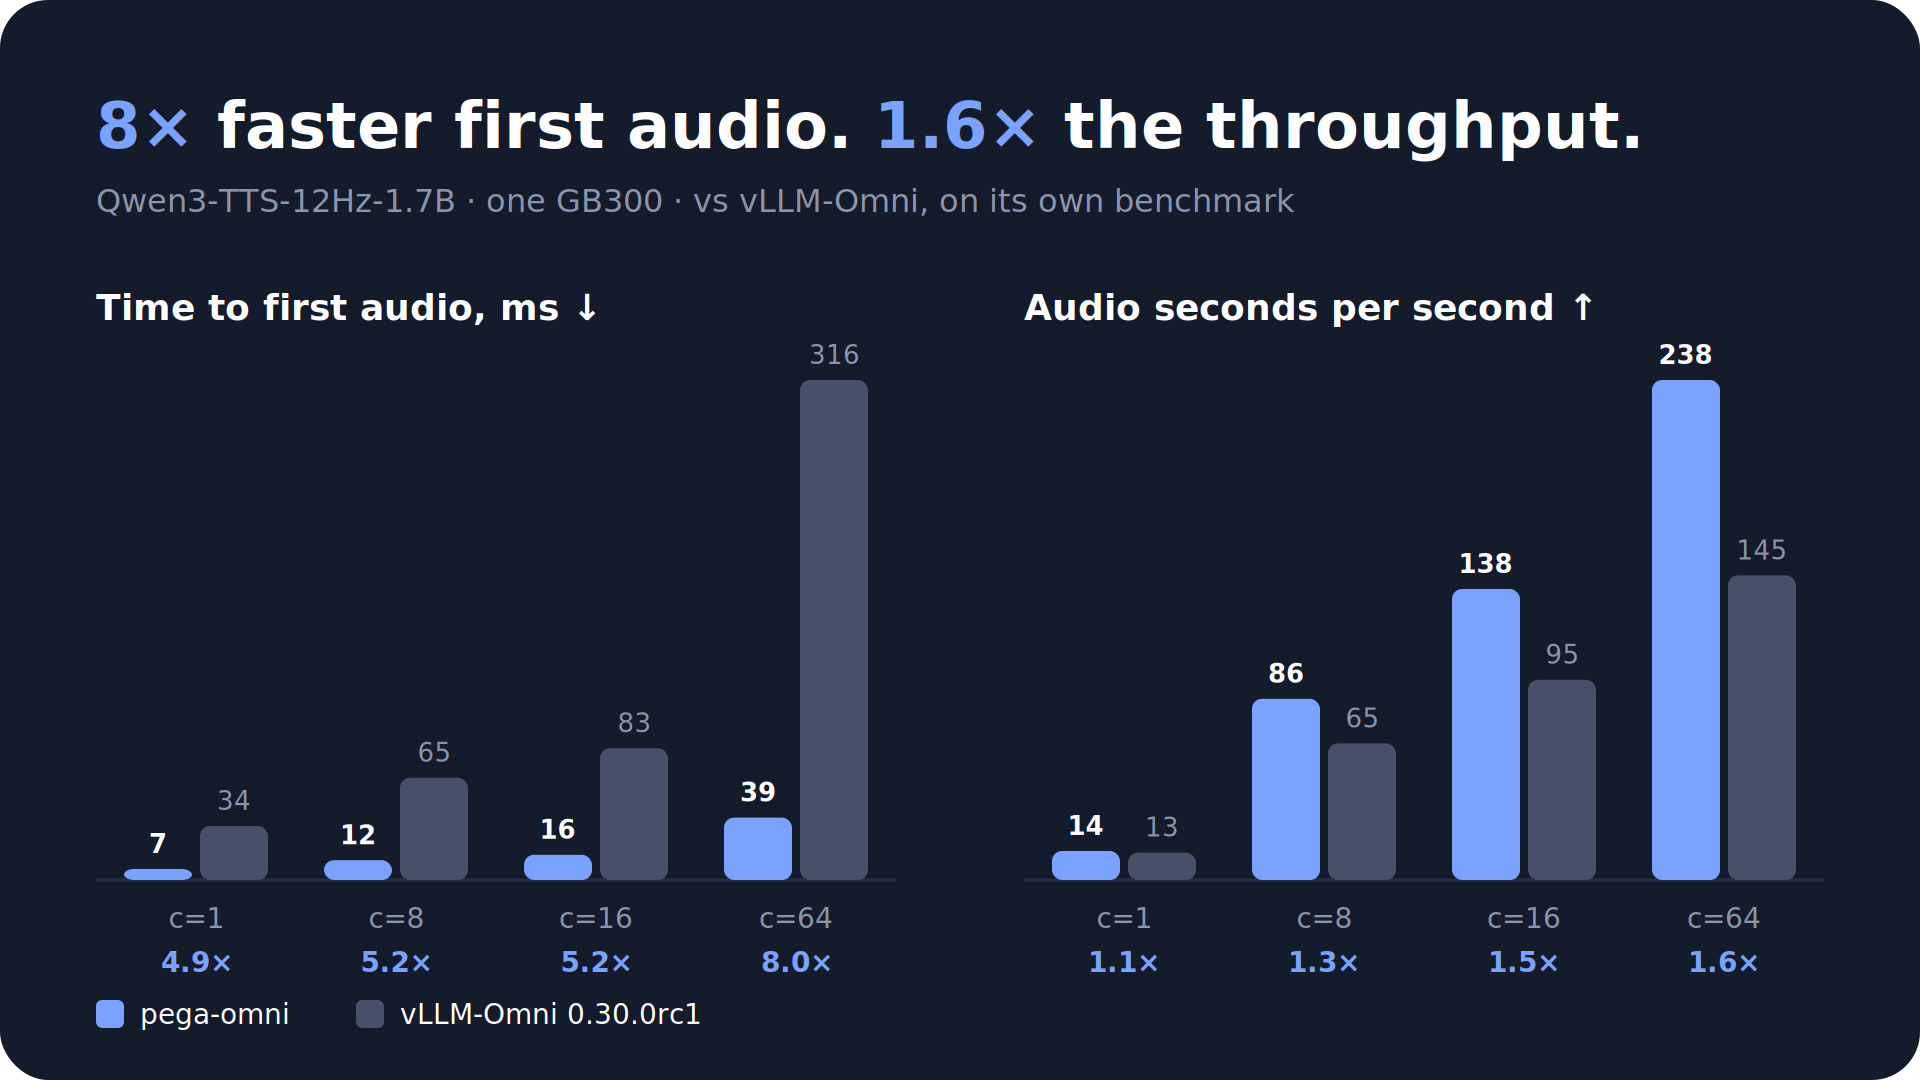
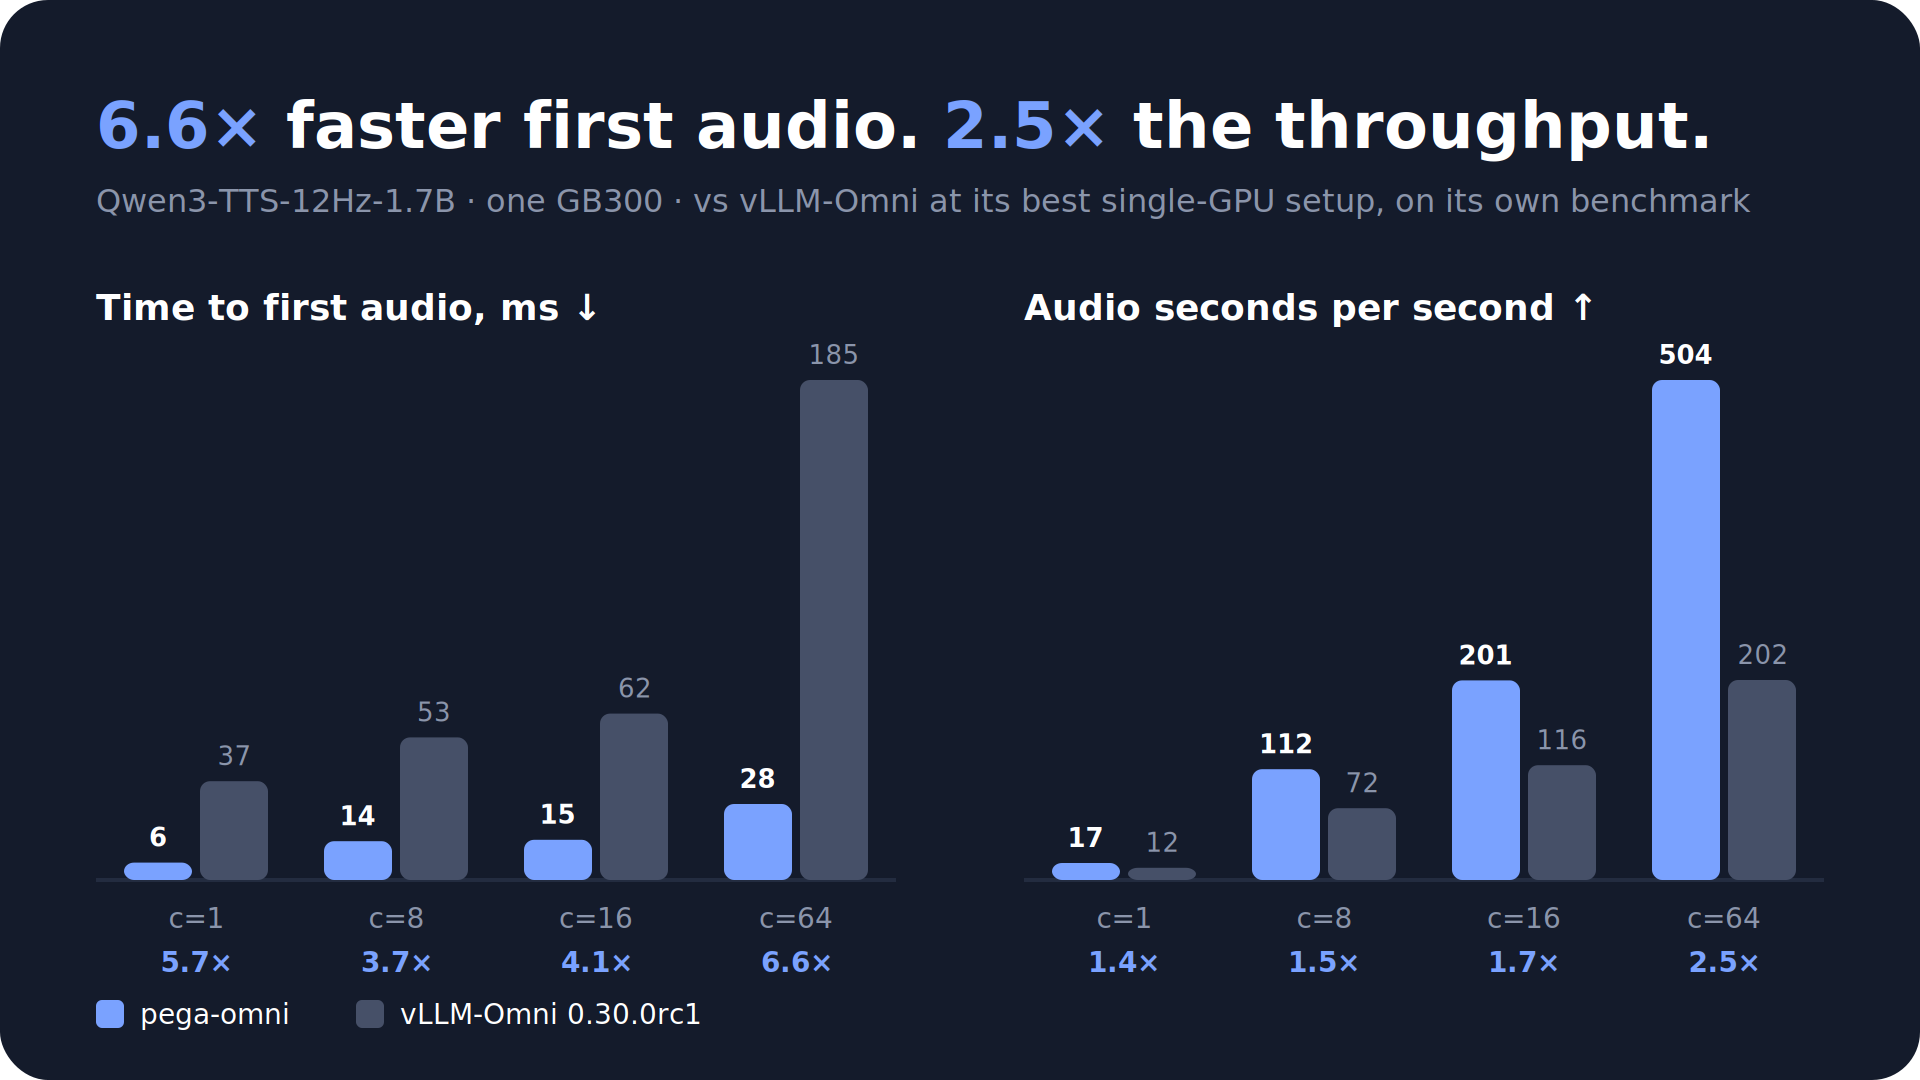
docs: the readme chart, the vllm-omni comparison and qwen3-tts performance are measured on this branch
vLLM-Omni now runs its single-GPU throughput profile under MPS, redrawn by
vs_vllm_omni.sh all; the A/B against main is recorded in bench.md.

diff --git a/docs/qwen3-tts-vs-vllm-omni.md b/docs/qwen3-tts-vs-vllm-omni.md
@@ -1,11 +1,13 @@
 # Qwen3-TTS against vLLM-Omni
 
-**TL;DR** (2026-09-23, one GB300 each, vLLM-Omni's own benchmark): with the
-same chunk schedule pega-omni reaches first audio 5-8x sooner and serves
-1.3-1.6x the audio per second from c=8 up (238 vs 145 audio-s/s at c=64).
-Single-request speed is the same on both (RTF 0.07-0.08). The gap is
-structure, not kernels: vLLM-Omni hands frames from a talker process to a
-code2wav process that polls every 10 ms, and its codec batches little.
+**TL;DR** (2026-09-23, one GB300 each, vLLM-Omni's own benchmark, vLLM-Omni at
+the best single-GPU setup we found for it): with the same chunk schedule
+pega-omni reaches first audio 3.7-6.6x sooner and serves 1.4-2.5x the audio
+per second (504 vs 202 audio-s/s at c=64). With its own 2+8 schedule every
+stream plays through at c=64, at 549 audio-s/s. The gap is structure: one
+batched step turns every running stream's newest frame into PCM, while
+vLLM-Omni hands frames from a talker process to a code2wav process that polls
+every 10 ms and decodes in small batches.
 
 ## What makes it fair
 
@@ -25,31 +27,36 @@ code2wav process that polls every 10 ms, and its codec batches little.
 - **Same card, one engine at a time.** Each server runs alone on the same GPU;
   the other is stopped. Server on cores 0-31, client on 36-71 (the GPU's NUMA
   node).
-- **Their shipped configuration.** vLLM-Omni's default deploy
-  (`vllm_omni/deploy/qwen3_tts.yaml`, one GPU: talker and code2wav as two
-  processes on it, CUDA graphs, first chunk 1 frame then 25, left context 72).
+- **Their strongest single-GPU setup.** vLLM-Omni's opt-in throughput profile
+  (`vllm_omni/deploy/qwen3_tts_high_concurrency_mrv2_single_gpu.yaml`: talker
+  and code2wav as two processes on one GPU, CUDA graphs, B8 codec batches,
+  first chunk 1 frame then 25, left context 72), with both processes sharing
+  the GPU through an MPS daemon, which the profile suggests but does not
+  enable. On this card it beats the default deploy (`qwen3_tts.yaml`) from c=8
+  up: 202 against 145 audio-s/s at c=64, first audio 185 against 316 ms.
 - **The same chunk schedule** for the engine comparison: pega-omni with
-  `--first-chunk-frames 1 --chunk-frames 25` (context 72 is its default).
+  `--first-chunk-frames 1 --chunk-frames 25`. Its codec is streamed, so it has
+  no left context to set: every frame is decoded once, with its full history.
   pega-omni's own default (2 then 8) is reported separately; chunking is a
   latency/continuity/throughput trade, not an engine property.
 
 ## Reproduce
 
-`tools/qwen3_tts/vs_vllm_omni.sh`:
+`tools/qwen3_tts/vs_vllm_omni.sh all` does the whole run and redraws
+`assets/qwen3-tts-vs-vllm-omni.png` (the README chart) from the results:
 
 ```bash
-export MODEL=/path/to/Qwen3-TTS-12Hz-1.7B-CustomVoice WORK=/path/to/scratch GPU=0
-tools/qwen3_tts/vs_vllm_omni.sh setup      # uv venv: vllm 0.30.0, vllm-omni 0.30.0rc1, ninja
-
-tools/qwen3_tts/vs_vllm_omni.sh serve-vllm-omni &          # first start compiles, ~5 min
-tools/qwen3_tts/vs_vllm_omni.sh bench vllm-omni vllm-omni  # then stop the server
-
 cargo build --release -p omni-server --features qwen3-tts
-tools/qwen3_tts/vs_vllm_omni.sh serve-pega-omni --first-chunk-frames 1 --chunk-frames 25 &
-tools/qwen3_tts/vs_vllm_omni.sh bench pega-omni pega-omni-1-25
+export MODEL=/path/to/Qwen3-TTS-12Hz-1.7B-CustomVoice WORK=/path/to/scratch GPU=0
+tools/qwen3_tts/vs_vllm_omni.sh all
 ```
 
-Each point leaves `c<N>.json` and the full `c<N>.log` under `$WORK/results/<label>/`.
+It sets up a uv venv (vllm 0.30.0, vllm-omni 0.30.0rc1, ninja; the first
+vLLM-Omni start compiles for ~5 min), then runs vLLM-Omni, pega-omni at 1+25
+and pega-omni at its default 2+8, each alone on the GPU, through the four CI
+points. The pieces (`setup`, `serve-vllm-omni`, `serve-pega-omni`, `bench`,
+`chart`) run on their own too. Each point leaves `c<N>.json` and the full
+`c<N>.log` under `$WORK/results/<label>/`.
 
 ## Results
 
@@ -61,18 +68,20 @@ continuity = share of streams whose playback underrun stays within 100 ms
 
 | c | engine | TTFP | RTF | audio-s/s | continuity | underrun |
 |---:|---|---:|---:|---:|---:|---:|
-| 1 | vLLM-Omni (1+25) | 34 / 41 | 0.08 | 13.0 | 100% | 0.07 |
-| 1 | pega-omni (1+25) | 7 / 7 | 0.07 | 13.8 | 100% | 0.06 |
-| 1 | pega-omni (2+8) | 13 / 13 | 0.08 | 13.3 | 100% | 0.00 |
-| 8 | vLLM-Omni (1+25) | 65 / 109 | 0.12 | 65.0 | 1% | 0.17 |
-| 8 | pega-omni (1+25) | 12 / 22 | 0.09 | 86.2 | 83% | 0.12 |
-| 8 | pega-omni (2+8) | 24 / 43 | 0.11 | 67.5 | 100% | 0.00 |
-| 16 | vLLM-Omni (1+25) | 83 / 152 | 0.16 | 95.3 | 0% | 0.27 |
-| 16 | pega-omni (1+25) | 16 / 37 | 0.11 | 138.5 | 13% | 0.15 |
-| 16 | pega-omni (2+8) | 31 / 70 | 0.16 | 97.5 | 100% | 0.00 |
-| 64 | vLLM-Omni (1+25) | 316 / 775 | 0.42 | 144.9 | 5% | 0.66 |
-| 64 | pega-omni (1+25) | 39 / 138 | 0.21 | 237.9 | 0% | 0.48 |
-| 64 | pega-omni (2+8) | 71 / 261 | 0.38 | 143.0 | 71% | 0.21 |
+| 1 | vLLM-Omni (1+25) | 37 / 37 | 0.08 | 12.3 | 100% | 0.07 |
+| 1 | pega-omni (1+25) | 6 / 7 | 0.06 | 17.1 | 100% | 0.03 |
+| 1 | pega-omni (2+8) | 10 / 10 | 0.06 | 17.2 | 100% | 0.00 |
+| 8 | vLLM-Omni (1+25) | 53 / 78 | 0.11 | 72.3 | 32% | 0.15 |
+| 8 | pega-omni (1+25) | 14 / 30 | 0.07 | 111.6 | 100% | 0.07 |
+| 8 | pega-omni (2+8) | 19 / 34 | 0.07 | 111.1 | 100% | 0.00 |
+| 16 | vLLM-Omni (1+25) | 62 / 123 | 0.13 | 115.6 | 9% | 0.21 |
+| 16 | pega-omni (1+25) | 15 / 33 | 0.08 | 201.0 | 100% | 0.09 |
+| 16 | pega-omni (2+8) | 22 / 30 | 0.08 | 196.5 | 100% | 0.00 |
+| 64 | vLLM-Omni (1+25) | 185 / 344 | 0.27 | 201.5 | 0% | 0.56 |
+| 64 | pega-omni (1+25) | 28 / 54 | 0.09 | 503.6 | 59% | 0.16 |
+| 64 | pega-omni (2+8) | 46 / 62 | 0.09 | 549.4 | 100% | 0.00 |
+
+Mean audio durations agree (5.4-5.8 s everywhere).
 
 For scale, vLLM-Omni's CI baseline on H100 (two GPUs, code2wav on the second):
 c=1 47 ms / 0.137; c=8 75 ms / 0.186 / 38.4; c=16 714 ms / 0.315 / 55.4;
@@ -80,21 +89,23 @@ c=64 5942 ms / 1.166 / 68.7 (median TTFP / RTF / audio-s/s).
 
 ## Reading
 
-- **Per-request compute is a tie.** At c=1 both finish a ~5.5 s utterance in
-  0.07-0.08 of real time.
+- **Per-request compute.** At c=1 pega-omni finishes a ~5.5 s utterance in
+  0.06 of real time against 0.08: its decode step (talker, code predictor,
+  sampler and codec) is one CUDA graph launch.
 - **First audio.** vLLM-Omni's first packet crosses three processes and a
   shared-memory connector whose reader sleeps 10 ms between polls
   (`connector_get_sleep_s`); pega-omni decodes the first frame in the step
   that produced it.
-- **Throughput under load** is where the one-loop design shows: talker, code
-  predictor and codec run as one batched step, while vLLM-Omni's code2wav
-  decodes small batches (`decode_batch_max_size: 4`) and time-slices the GPU
-  with the talker process.
-- **Continuity** is the chunk schedule's doing on both engines: after a
-  1-frame first chunk the second waits 25 frames (2 s of audio), so under load
-  nearly every stream gaps. pega-omni's 2+8 keeps every stream continuous to
-  c=16, at the cost of decoding more often (throughput at c=64 falls to
-  vLLM-Omni's level).
+- **Throughput under load.** pega-omni's step decodes one frame of every
+  running stream in one batch, so the codec's cost per step barely grows with
+  concurrency (RTF 0.06 → 0.09 from c=1 to c=64). vLLM-Omni's code2wav
+  time-slices the GPU with the talker process and decodes at most 8 streams
+  at a time (RTF 0.08 → 0.27).
+- **Continuity** is the chunk schedule's doing: after a 1-frame first chunk
+  the second waits 25 frames (2 s of audio), so under load streams gap on
+  both engines. With a streamed codec a smaller chunk costs nothing extra, so
+  pega-omni's 2+8 keeps every stream continuous to c=64 without losing
+  throughput.
 
 ## Not covered
 
@@ -102,5 +113,5 @@ c=64 5942 ms / 1.166 / 68.7 (median TTFP / RTF / audio-s/s).
   similarity, UTMOS). Correctness is covered separately by the golden test
   (docs/qwen3-tts.md).
 - vLLM-Omni's two-GPU CI layout and its adaptive chunking
-  (`codec_chunk_adaptive`), its answers to the codec bottleneck.
+  (`codec_chunk_adaptive`), its other answers to the codec bottleneck.
 - Each point is a single short run (c=64 finishes 128 requests in ~5 s).

diff --git a/docs/qwen3-tts.md b/docs/qwen3-tts.md
@@ -116,4 +116,32 @@ Japanese, including 8 concurrent requests in one batch.
 
 ## Performance
 
-PERF_PLACEHOLDER
+Measured 2026-09-23 on one GB300 against main (the chunked codec, the
+talker launch by launch), `omni-bench`, default 2+8 chunks, server and client
+pinned to separate cores, two runs each; [bench.md](bench.md#qwen3-tts-one-manifest)
+has the method.
+
+| c | TTFP p50 / p99 ms | RTF | audio-s/s | streams without underrun |
+|---:|---|---|---|---|
+| 1 | 12.2 / 14.7 → 9.9 / 16.4 | 0.075 → 0.059 | 13.3 → 16.8 (1.27x) | all → all |
+| 8 | 23.9 / 46.5 → 19.6 / 29.4 | 0.116 → 0.069 | 65.4 → 111.5 (1.71x) | all → all |
+| 32 | 42.3 / 147.9 → 21.2 / 29.6 | 0.252 → 0.084 | 116.7 → 327.7 (2.81x) | 62% → all |
+| 64 | 80.4 / 278.8 → 22.5 / 32.6 | 0.442 → 0.099 | 133.0 → 563.6 (4.24x) | 25% → all |
+
+Where it comes from:
+
+- **The streamed codec** decodes each frame once instead of re-decoding a
+  72-frame window per chunk; its kernels bring one frame for 64 streams to
+  1.02 ms of GPU time ([bench.md](bench.md#qwen3-tts-codec-decoder-kernels)).
+- **One graph per step**: talker, code predictor, sampler and codec replay as
+  one launch, so c=1 is no longer bound by launching ~1,100 kernels from the
+  CPU.
+
+Against vLLM-Omni on its own benchmark, see
+[qwen3-tts-vs-vllm-omni.md](qwen3-tts-vs-vllm-omni.md): with the same chunk
+schedule, first audio 3.7-6.6x sooner and 1.4-2.5x the audio per second.
+
+What is next: a decode graph is ~1,200 kernel nodes, most of them the 15
+code-predictor passes, so at c=1 fusing those is the lever; a step that admits
+requests runs `prefill` + `first` and `decode` as two waited calls, the next
+thing to overlap.

diff --git a/docs/bench.md b/docs/bench.md
@@ -239,3 +239,31 @@ The tables use these column conventions:
   needs `min`/`sub` in kern's shape expressions, which kern does not have.
 - **An implicit-GEMM conv1 on mma.sync.** The estimate was about 80 µs at
   B=64, only for the last block, so it was not built.
+
+# Qwen3-TTS: one manifest
+
+**TL;DR** (2026-09-23, one GB300): the talker, code predictor, sampler and
+streamed codec as one kern manifest, one graph launch per decode step, serve
+1.27x main's audio per second at c=1 and 4.24x at c=64, with every stream
+continuous at c=64 (main: 25%).
+
+## Method
+
+- main (3c4ad29) against this branch's release binary, one server at a time on
+  GPU 2; server on cores 108-125, client (`omni-bench`) on 126-143, both on
+  the GPU's NUMA node; order main, new, main, new; the table is the mean of
+  the two runs.
+- Default chunk schedule (2+8). Points c=1/8/32/64 with max(64, 4c) requests
+  and max(8, c) warmups; prompts are 64 varied English and Chinese sentences.
+
+## A/B against main
+
+| c | TTFP p50 / p99 ms | RTF | audio-s/s | streams without underrun |
+|---:|---|---|---|---|
+| 1 | 12.2 / 14.7 → 9.9 / 16.4 | 0.075 → 0.059 | 13.3 → 16.8 (1.27x) | 128/128 → 128/128 |
+| 8 | 23.9 / 46.5 → 19.6 / 29.4 | 0.116 → 0.069 | 65.4 → 111.5 (1.71x) | 128/128 → 128/128 |
+| 32 | 42.3 / 147.9 → 21.2 / 29.6 | 0.252 → 0.084 | 116.7 → 327.7 (2.81x) | 158/256 → 256/256 |
+| 64 | 80.4 / 278.8 → 22.5 / 32.6 | 0.442 → 0.099 | 133.0 → 563.6 (4.24x) | 128/512 → 512/512 |
+
+Under nsys at c=1 each decode step is one `cuGraphLaunch` followed by two
+copies back (codes and PCM); the only other launches are the eager prefills.

diff --git a/README.md b/README.md
@@ -7,7 +7,7 @@
 <p align="center">OpenAI-compatible speech serving in Rust, from the <a href="https://github.com/pegainfer-project/pegainfer">pegainfer</a> project.</p>
 
 <p align="center">
-  <a href="docs/qwen3-tts-vs-vllm-omni.md"><img src="assets/qwen3-tts-vs-vllm-omni.png" width="800" alt="pega-omni vs vLLM-Omni: 8x faster first audio, 1.6x the throughput"></a>
+  <a href="docs/qwen3-tts-vs-vllm-omni.md"><img src="assets/qwen3-tts-vs-vllm-omni.png" width="800" alt="pega-omni vs vLLM-Omni: 6.6x faster first audio, 2.5x the throughput"></a>
 </p>
 
 ---
